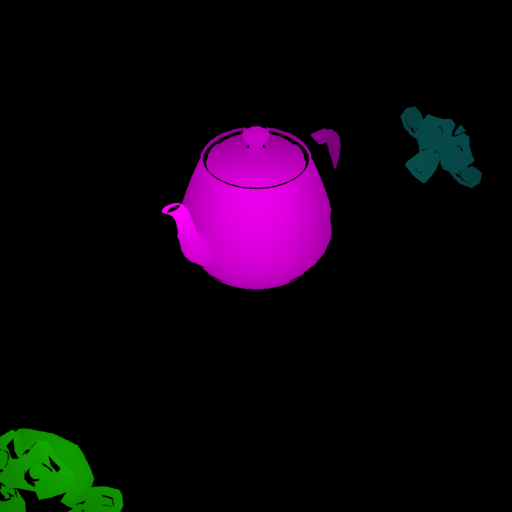
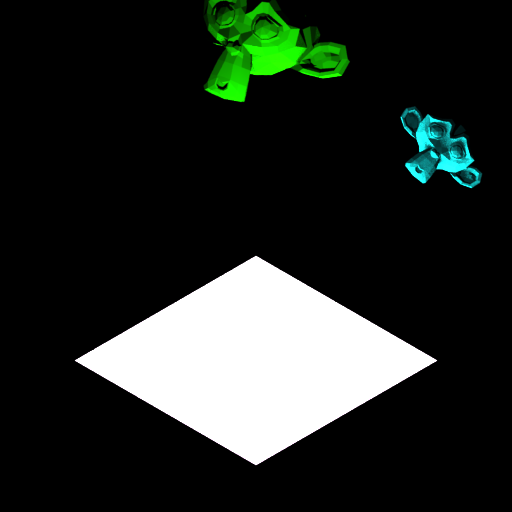
Added diffuse area light sampling in estimate_direct

diff --git a/src/integrator/direct.rs b/src/integrator/direct.rs
@@ -142,7 +142,7 @@ fn uniform_sample_all_lights(it: &Interaction, scene: &Scene, sampler: &mut Samp
         } else {
             let mut ld = Spectrum::zeros();
             for k in 0..n_samples {
-                ld = estimate_direct(it, &u_scattering_array[k], light, &u_light_array[k], scene, sampler, handle_media, false);
+                ld += estimate_direct(it, &u_scattering_array[k], light, &u_light_array[k], scene, sampler, handle_media, false);
             }
 
             l += ld / n_samples as f32;
@@ -194,13 +194,14 @@ fn estimate_direct(it: &Interaction, u_scattering: &Point2, light: &Arc<Light>, 
                 f = match &s.bsdf {
                     Some(bsdf) => {
                         // println!("Found bsdf, calling .f");
-                        bsdf.f(&s.get_wo(), &wi, Some(bsdf_flags))
+                        scattering_pdf = bsdf.pdf(s.get_wo(), &wi, Some(bsdf_flags));
+                        bsdf.f(&s.get_wo(), &wi, Some(bsdf_flags)) * wi.dot(&s.shading.n).abs()
                     },
                     None => {
                         eprintln!("No BSDF found in estimate direct");
                         Spectrum::zeros()
                     }
-                }
+                };
             },
             _ => panic!("Medium Interaction not implemented yet")
         }
@@ -225,13 +226,14 @@ fn estimate_direct(it: &Interaction, u_scattering: &Point2, light: &Arc<Light>, 
                 } else {
                     let weight = power_heuristic(1.0, light_pdf, 1.0, scattering_pdf);
                     ld += f.component_mul(&li) * weight / light_pdf;
-                    // println!("Is not a delta light, ld: {:?}", ld);
+                    // println!("Is not a delta light,f: {:?}, li: {:?}, weight: {}, ld: {:?}",f, li, weight, ld);
                 }
             }
         }
     }
 
     if !is_delta_light(light.get_flags() as u32) {
+        // println!("Not a delta light");
         let mut f = Spectrum::zeros();
         let mut sampled_specular = false;
 
@@ -240,9 +242,11 @@ fn estimate_direct(it: &Interaction, u_scattering: &Point2, light: &Arc<Light>, 
                 let mut sampled_type: BxDFType = BxDFType::empty();
                 match &s.bsdf {
                     Some(bsdf) => {
-                        f = bsdf.sample_f(&s.get_wo(), &mut wi, u_scattering, &mut scattering_pdf, &mut bsdf_flags, &mut sampled_type);
+                        // println!("Sampling f");
+                        f = bsdf.sample_f(&s.get_wo(), &mut wi, u_scattering, &mut scattering_pdf, bsdf_flags, &mut sampled_type);
                         f *= wi.dot(&s.shading.n).abs();
                         sampled_specular = sampled_type.contains(BxDFType::BSDF_SPECULAR);
+                        // println!("f: {:?}, scat_pdf: {}", f, scattering_pdf);
                     },
                     _ => panic!("No BSDF found on interaction")
                 }
@@ -251,6 +255,7 @@ fn estimate_direct(it: &Interaction, u_scattering: &Point2, light: &Arc<Light>, 
         }
 
         if f != Spectrum::zeros() && scattering_pdf > 0.0 {
+            // println!("F nonzera and +vs scat_pdf");
             let mut weight = 1.0;
 
             if !sampled_specular {
@@ -275,13 +280,19 @@ fn estimate_direct(it: &Interaction, u_scattering: &Point2, light: &Arc<Light>, 
 
             let mut li = Spectrum::zeros();
 
+            // println!("li: {:?}", li);
+            
             if found_surface_its {
-                if Arc::ptr_eq(&light_its.primitive.get_area_light().unwrap(), light) {
-                    li = light_its.le(&-wi);
+                if let Some(al) = light_its.primitive.get_area_light() {
+                    if Arc::ptr_eq(&al, light) {
+                        // println!("light equals light");
+                        li = light_its.le(&-wi);
+                    }
                 }
             } else {
                 li = light.le(&ray);
             }
+            // println!("li_now: {:?}", li);
 
             if li != Spectrum::zeros() {
                 ld += f.component_mul(&li).component_mul(&tr) * weight / scattering_pdf;

diff --git a/src/core/bsdf.rs b/src/core/bsdf.rs
@@ -54,7 +54,7 @@ impl BSDF {
 
         for i in 0..self.n_bxdfs {
             let typ = self.bxdfs[i].get_type();
-            if typ.contains(flags) {
+            if flags.contains(typ) {
                 ret += 1;
             }
         }
@@ -104,10 +104,10 @@ impl BSDF {
         wi_world: &mut Vector3,
         u: &Point2,
         pdf: &mut f32,
-        typ: &BxDFType,
+        typ: BxDFType,
         flags: &mut BxDFType,
     ) -> Spectrum {
-        let matching_comps = self.num_components(*typ);
+        let matching_comps = self.num_components(typ);
         if matching_comps == 0 {
             *pdf = 0.0;
             return Spectrum::zeros();
@@ -120,7 +120,7 @@ impl BSDF {
         let mut count = comp;
 
         for i in 0..self.n_bxdfs {
-            if self.bxdfs[i].matches_flags(*typ) {
+            if self.bxdfs[i].matches_flags(typ) {
                 if count == 0 {
                     chosen = Some((i, &self.bxdfs[i]));
                     break;
@@ -141,7 +141,7 @@ impl BSDF {
 
         *flags = cur_bxdf.get_type();
         
-        let mut f = cur_bxdf.sample_f(&wo, &mut wi, &u_remapped, pdf, Some(*typ));
+        let mut f = cur_bxdf.sample_f(&wo, &mut wi, &u_remapped, pdf, Some(typ));
 
         if *pdf == 0.0 {
             return Spectrum::zeros();
@@ -152,7 +152,7 @@ impl BSDF {
         // Compute overall PDF with all matching BxDFs
         if !cur_bxdf.get_type().contains(BxDFType::BSDF_SPECULAR) && matching_comps > 1 {
             for i in 0..self.n_bxdfs {
-                if i != cur_bxdf_idx && self.bxdfs[i].matches_flags(*typ) {
+                if i != cur_bxdf_idx && self.bxdfs[i].matches_flags(typ) {
                     *pdf += self.bxdfs[i].pdf(&wo, &wi);
                 }
             }
@@ -168,7 +168,7 @@ impl BSDF {
             f = Spectrum::zeros();
 
             for i in 0..self.n_bxdfs {
-                if self.bxdfs[i].matches_flags(*typ)
+                if self.bxdfs[i].matches_flags(typ)
                     && ((reflect && self.bxdfs[i].get_type().contains(BxDFType::BSDF_REFLECTION))
                         || (!reflect
                             && self.bxdfs[i].get_type().contains(BxDFType::BSDF_TRANSMISSION)))

diff --git a/src/shape/triangle_mesh.rs b/src/shape/triangle_mesh.rs
@@ -238,7 +238,7 @@ impl Manufacturable<Shape> for Triangle {
 impl ShapeT for Triangle {
     fn get_object_to_world(&self) -> &Transform { &self.mesh.object_to_world }
     fn get_world_to_object(&self) -> &Transform { panic!("Dont call get_world_to_object on a triangle"); }
-    fn get_reverse_orientation(&self) -> bool { panic!("Dont call get_reverse_orientation on a triangle"); }
+    fn get_reverse_orientation(&self) -> bool { false }
 
     fn object_bounds(&self) -> Bounds3 {
         self.world_bounds()

diff --git a/src/main.rs b/src/main.rs
@@ -63,6 +63,7 @@ fn load_scene_and_render_hit_ppm(registry: &Registry, num_threads: usize) {
     let integrator = instance.get_integrator();
 
     println!("Integrator: {}", integrator.to_string());
+    println!("Scene: {}", instance.scene.to_string());
     println!("Rendering...");
 
     let duration = {

diff --git a/README.md b/README.md
@@ -15,7 +15,7 @@ Output of the intersection renderer (incomplete direct renderer), which outputs 
 - [x] Added Basic Maths 
 - [x] Added Vectors, Normals, Points, Bounding Boxes
 - [x] Added Interaction and Surface Interactions
-- [x] Added Shapes
+- [x] Added Shapes[[](https://github.com/kakuking/leadV3/blob/3a8fa18cfd6c1d0e0e57859c2f1d9634da59a0d7/z_output/direct.png)](https://github.com/kakuking/leadV3/blob/3a8fa18cfd6c1d0e0e57859c2f1d9634da59a0d7/z_output/direct.png)
 - [x] Added Sphere
 - [x] Added XML loading
 - [x] Add meshes
